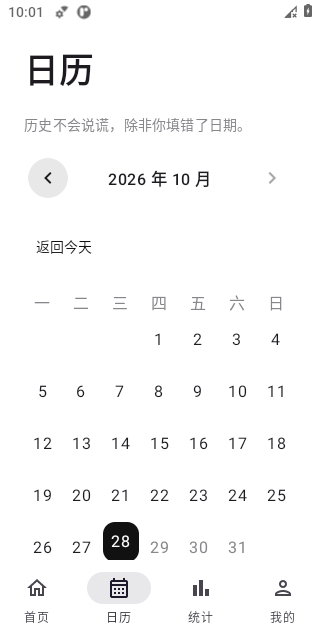
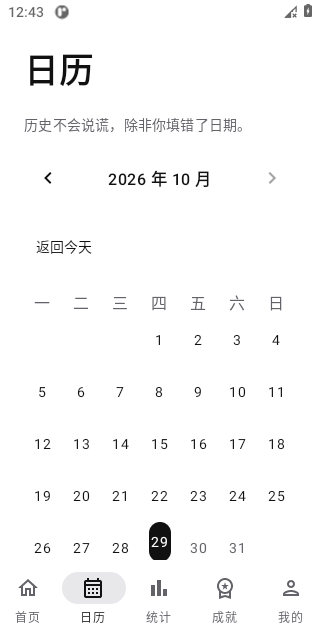
docs: deliver verified v0.2.0 prerelease, screenshots and validation evidence

diff --git a/docs/VALIDATION.md b/docs/VALIDATION.md
@@ -1,62 +1,66 @@
 # v0.2.0 验证与交付
 
-日期：2026-10-29（Asia/Shanghai）。全部测试数据为人工构造。历史 v0.1.0 的结果归档于 [旧版验证报告](history/VALIDATION-v0.1.0.md)，不能混作本次结果。
+日期：2026-10-29（Asia/Shanghai）。所有测试仅使用人工构造的数据。
 
-## 本地验证
+## 实际交付
 
-已执行：
+- [GitHub 预发布](https://github.com/J-Ruan/LuLeMa/releases/tag/v0.2.0-debug.2) · [APK 直接下载](https://github.com/J-Ruan/LuLeMa/releases/download/v0.2.0-debug.2/LuLeMa-v0.2.0-debug.apk) · [校验文件](https://github.com/J-Ruan/LuLeMa/releases/download/v0.2.0-debug.2/SHA256SUMS)。
+- 这是 **Debug 开发签名预发布**，不是正式签名稳定版。
[1 lines of base64/hex data omitted]
+- 包名 com.lulema.app，versionName 0.2.0，versionCode 2，minSdk 26、targetSdk 35。
+- 已从公开、无需登录的 URL 重新下载，逐项核对附件 SHA256SUMS、APK Signature Scheme v2、包名、版本和权限。不存在 INTERNET、精确 / 粗略 / 后台定位权限。
+
+## 真实检查结果
+
+| 检查 | 结果 |
+|---|---|
+| JVM 单元测试 | 42 项通过，0 失败、0 跳过 |
+| API 30 / Android 11 设备测试 | 7 项通过，0 失败、0 跳过 |
+| Lint | 0 错误；本地 17、CI 18 警告：15 项依赖更新、原有 v26 图标及矢量路径；CI 另提示保持 targetSdk 35 未使用最新目标 API |
+| Debug / AndroidTest 构建 | 成功，开发签名有效；公开附件已实际安装，并核对首页五个入口及初始 0 次记录 |
+| R8 Release 构建与安装 | 优化构建成功，专用模拟器以仅供测试的临时签名安装、启动、新增、详情点评、五页导航和报告切换成功 |
+| 小屏与大字体 | 本地 320×640、160dpi、1.5 倍字体的 R8 全流程成功；日历日期单行已截图人工核对，完成后恢复字体设置 |
+| 正式签名稳定版 | 未发布，四项签名 Secrets 均缺失；没有把 unsigned 或测试签名 APK 冒充正式版 |
+
+本地实际执行：
 
 ```bash
 ./gradlew --no-daemon --max-workers=2 :app:testDebugUnitTest :app:lintDebug :app:assembleDebug :app:assembleRelease :app:assembleDebugAndroidTest
+./gradlew --no-daemon :app:connectedDebugAndroidTest -Pandroid.injected.androidTest.leaveApksInstalledAfterRun=true
 ```
 
-- JVM 单元测试 42 项通过，0 失败、0 跳过。
-- Lint 0 错误、17 警告：15 项现有依赖的新版本提示，以及标准 v26 自适应图标目录、中文完整矢量轮廓两项原有警告。保持当前兼容依赖，未关闭检查或删除断言。
-- Debug、AndroidTest 和 R8 Release 构建成功。未向本地提供正式签名，Release 输出 unsigned，仅作构建验证，不能作为可安装的正式版。
-- 工作流 YAML、发布冒烟脚本 Python 语法与 git diff --check 通过。
+本地缺 /dev/kvm，TCG 交互轮次受启动系统 ANR 和输入派发超时影响，不计为完整通过；完整 7 项结果来自硬件加速 CI。代码中未删除断言或跳过迁移。Espresso 仅用于 AndroidTest 的键盘操作，不进入应用 APK。
 
-API 30 / Android 11、320×640、160 dpi 的专用模拟器中，真实数据库迁移、Room CRUD / 新字段持久化 / 合并覆盖回滚、成就补算、实际加密文件导出预览恢复及篡改拒绝、WorkManager 任务 UUID 保持等 6 项后端设备测试已经通过。
+## 可核对的远端记录
 
-完整 Compose 流程已在硬件加速 CI 实际通过，见下文。此本地实例没有 /dev/kvm，TCG 启动时出现 System UI、电话、蓝牙和 system 进程的无响应对话框；处理启动对话框后，交互测试仍遇到输入派发超时。本地轮次不完整，不能描述为通过。测试保留全部断言，增加仅含阶段名称的日志和可见区域滚动定位，并将 R8 构建与交互分开运行。
+- [最终 main 验证 40875176118](https://github.com/J-Ruan/LuLeMa/actions/runs/40875176118)：build、7 项设备测试、R8 安装冒烟成功。
+- [实际发布流水线 40876438177](https://github.com/J-Ruan/LuLeMa/actions/runs/40876438177)：标签门禁成功后 debug-prerelease 上传实际附件。正式 release job 按缺签名的真实状态跳过。
+- [前一轮完整验证 40870347476](https://github.com/J-Ruan/LuLeMa/actions/runs/40870347476) 已核对真实 JUnit XML：7 项、0 失败 / 错误 / 跳过，31.446 秒。
+- 核心实现提交 81b4ac5；完整灰阶主题与独立 R8 测试签名 6668354；大字体与报告断言 297ceca；键盘测试与显式依赖 6bfe537 / 3693083。实际发布 Tag 指向 3693083，后续 README / 截图 / 本报告同步在 main。
 
-## 实现与验证范围
+## 业务与迁移验证
 
-- 单元测试覆盖单日 2–6 次同时解锁、UUID 幂等、历史连续日期 / 中断 / 跨年闰日、时长点评及 0/3/60 边界、解锁后不撤销。
-- 新字段覆盖非负整数 / 上限、小数 / NaN / Infinity / 精度 / 上限、地点长度、空值与真实 0；合计使用 Long 和 BigDecimal。
-- 报告覆盖自然周起始、跨年周、闰月 / 闰年、截止今天、空数据、有效时长平均值、地点分组与按本地日期归属的新勋章。
-- 备份覆盖真实 v1 缺失字段恢复为空、新格式明文 / AES-GCM 往返、密码 / 篡改 / 超限 / 深度 / 重复 ID / 缺身份字段及异常未来时间戳。
-- MigrationTestHelper 用已提交的 schema 1 创建旧数据库，插入旧记录、设置和解锁时间，显式迁移至 2，验证三列为 NULL、原数据及升级后 CRUD。应用注册同一迁移，不使用破坏性回退。
-- Compose 流程保留输入、重建恢复、详情点评、编辑、新字段回显、报告切换和刷新、独立勋章墙、五页导航、深色重建和删除检查；已在以下 CI 设备轮次完整通过。
+- 原九枚成就 key 保留，新增八枚；单日 2–6 次逐边界、同 UUID 幂等、历史补录、连续日期 / 中断 / 跨月跨年闰日、0 / 3 / 60 分钟边界均测试。删除和编辑不撤销既有解锁时间，导入后在业务事务中检查。
+- 手部运动次数为非负 Int?；出货量为 0–1000 mL、最多三位小数的 Double?，拒绝 NaN / Infinity；地点手填最多 100 字。未填为 null，真实 0 保留。手部次数合计用 Long，出货量用 BigDecimal，记录次数另行统计。
+- 周 / 月 / 年报告按本地自然日期，星期起始遵循 mondayFirst；当前周期截止今天。平均值和时长曲线仅含 duration > 0 的已填值；报告展示未填写数量。界面实际断言：两条记录中只有一次填写 61 分钟时，平均仍为 61.0 分钟。
+- Room schema 1、2 均保留，MIGRATION_1_2 用 ALTER TABLE 增加三个可空列并在应用注册。MigrationTestHelper 创建真实旧库、插入旧记录 / 设置 / 成就时间，升级后验证三列为 NULL、原数据完整及 CRUD；没有破坏性迁移。
+- 新导出格式 v2、兼容 v1 明文和加密；保留 PBKDF2 / AES-GCM、AAD、大小 / 深度限制、导入预览、按较新 UUID 合并、事务覆盖与回滚。三个新字段与 null / 0 的往返、重复 ID、坏密码 / 篡改 / 超限 / 异常未来时间戳均覆盖。
+- 创建 / 修改 / 解锁 / 导出时间必须为正且最多容忍本机五分钟偏差，修改不得早于创建；不静默改写异常文件。
+- 实际 WorkManager UUID 测试验证昵称、主题、星期起始不重排，提醒配置改变才重排，关闭会取消；启动使用 KEEP 检查。
+- Compose 真实录入三个字段、Activity 重建恢复、详情与编辑、报告刷新、独立勋章墙、五页导航、深色重建、删除均通过。文件导出 / 预览 / 恢复设备测试通过真实 ContentResolver 文件 URI 执行，篡改不改数据库。
 
-## 发布门槛与实际状态
+## 签名条件与剩余维护操作
 
-本次代码版本为 0.2.0 / versionCode 2，包名 com.lulema.app，minSdk 26、targetSdk 35。当前只确认源码实现及上述本地结果；v0.2.0 尚未发布。
+仓库执行器的 signing-readiness 已实际确认以下四项均缺失：KEYSTORE_BASE64、KEYSTORE_PASSWORD、KEY_ALIAS、KEY_PASSWORD。仅检查存在性，未输出秘密值。维护者需生成并长期离线保管同一份正式 Keystore，将四项配置为 GitHub Actions Secrets，先通过 main 的正式签名候选 APK 验证，再创建 v0.2.0 稳定 Tag、完成上传和下载校验。详见 [发布文档](RELEASING.md)。
 
-本地 GitHub 凭据可以读写仓库，但列出 Actions Secrets 的接口返回 403。仓库执行器的 signing-readiness 已实际检查并确认四项均缺失：KEYSTORE_BASE64、KEYSTORE_PASSWORD、KEY_ALIAS、KEY_PASSWORD。输出只包含缺失名称，不输出秘密值。正式稳定版因此暂不具备签名条件。
+Debug 与正式签名不同，开发签名也可能随执行器变化；升级前先导出并确认备份，签名冲突时再卸载、安装和恢复。v2 备份不能给旧 v0.1.0 导入，加密密码无法找回。
 
-仅在 main 的测试及实际正式签名候选包的签名、安装、启动和关键流程通过后创建 v0.2.0；缺签名则仅允许明确标记的 v0.2.0-debug.1 预发布。发布后必须重新下载真实附件核对 SHA-256 和签名，再记录链接与校验值。
+尚未覆盖 Android 8 真机、Android 13+ 通知授权、不同厂商省电策略及各 SAF 云盘文件提供器的完整手动回归。未将这些项目描述为通过。
 
-## 兼容性与未覆盖范围
+## 失败记录与修正
 
-- 旧记录以 duration=0 表示未填写，平均值和时长曲线统一忽略这些值；旧字段及九枚成就 key 不变，新列可空。
-- 旧 v1 明文 / 加密备份可导入；新导出格式 v2 不能给旧 v0.1.0 导入，升级前请保留旧备份。
-- 开发签名可能随机器改变，公开 v0.1.0 Debug 不承诺直接覆盖升级；正式签名与 Debug 不同，切换前先备份，必要时卸载旧包后恢复。
-- 尚未做 Android 8 真机、Android 13+ 通知授权、厂商省电策略及各 SAF 云盘提供器的完整回归；实际设备与 Release 验证将按执行结果补充，不以编译成功替代。
+- 本地首次增量编译有跨文件引用问题，清理生成文件后完整构建通过；本地软件仿真出现启动系统 ANR 及输入派发超时，不计作通过。公开 APK 安装成功，首次本地 am start -W 等待超时后首页实际加载；随后返回 Status: ok 并核对五页入口 / 初始空档案，不将该软件仿真的冷启动性能计为通过。
+- 40865042327：7 项设备测试通过，但 R8 冒烟假定默认开发私钥存在而失败；改为独立生成、清理仅供测试的临时密钥。40866586982 随后完整成功。
+- v0.2.0-debug.1 / 40871411137：展开选填字段时自动化操作遇到键盘布局时序，发布门禁阻止上传。保留失败 Tag，没有 Release。修正为先关闭键盘、等待字段；补齐显式测试依赖后编译和完整检查重新通过。3693083 保留全部断言。
 
-## 首轮远端验证及修正
-
-[运行 40865042327](https://github.com/J-Ruan/LuLeMa/actions/runs/40865042327)，源码提交 81b4ac5：build 成功，7 项 API 30 设备测试全部通过，0 失败 / 0 跳过，真实 JUnit XML 用时 30.372 秒，并产出八张实际 UI 截图。
-
-整轮工作流仍为失败：R8 构建成功后，冒烟签名步骤假定 /home/runner/.android/debug.keystore 存在，但缓存复用 APK 时该私钥不存在，尚未执行 R8 安装。已修正为独立生成仅供测试的临时 PKCS12 密钥，保留原设备截图后在专用模拟器进行独立安装，退出时清理；它不会进入 Release 附件或代替正式 Keystore。修正后的 [运行 40866586982](https://github.com/J-Ruan/LuLeMa/actions/runs/40866586982) 已完整成功，包含 build、7 项设备测试、独立测试密钥的 R8 签名 / 安装冒烟；正式签名发布按缺少 Secrets 的真实状态跳过。
-
-本地已经将 R8 输出以开发签名安装，实际通过包名 / 版本 / minSdk / 签名 / 无网络和定位权限检查，并走通启动、创建记录、详情点评、五页导航及月报 / 年报切换。该包仅作冒烟，不是正式稳定版。
-
-实际截图检查另发现 Material 3 默认部分容器带淡紫色，已补齐全部黑白灰色彩角色并提高次级文字对比度，覆盖表单、弹层、对话框和深色模式；修正后本地 JVM / Lint / Debug / R8 构建均再次通过。
-
-大字体实测进一步发现 320dp / 1.5 倍字体下两位日历日期折行，已收紧日期单元格横向留白并保持单行。报告 UI 截图改为实际统计内容，并补充未填时长不稀释平均值的界面断言；冒烟脚本在报告控件位于屏幕外时先滚动定位。上述最后修正需通过最终回归后再打标签。
-
-## 首个发布标签的门禁失败
-
-标签 v0.2.0-debug.1 的 [运行 40871411137](https://github.com/J-Ruan/LuLeMa/actions/runs/40871411137) 在设备测试阶段出现展开选填字段后的节点时序失败（hand-count-input 尚未出现），因此没有执行上传或创建 Release。保留此失败标签，不覆盖、不删除。测试已改为先收起输入法，再展开并等待字段出现；其余字段值、重建恢复、统计、删除等断言全部保留。通过修正后的 main 与标签验证后使用新的预发布后缀。
-
-键盘操作显式依赖 androidx.test.espresso:espresso-core:3.6.1（仅 AndroidTest，不进入应用 APK）；补齐后完整 JVM / Lint / Debug / R8 / AndroidTest 构建再次成功。首次缺依赖的编译失败也保留在记录中。
+旧版结果独立归档于 [v0.1.0 验证报告](history/VALIDATION-v0.1.0.md)。[本次实际文件清单](V0.2.0_FILES.md)。

diff --git a/docs/V0.2.0_FILES.md b/docs/V0.2.0_FILES.md
@@ -1,0 +1,56 @@
+# v0.2.0 实际变更文件
+
+实现基于原有架构；列表包含源代码、测试、迁移、工作流、文档和实际截图。
+
+- [.github/scripts/release-smoke.py](../.github/scripts/release-smoke.py)
+- [.github/scripts/start-emulator.sh](../.github/scripts/start-emulator.sh)
+- [.github/workflows/android.yml](../.github/workflows/android.yml)
+- [.gitignore](../.gitignore)
+- [CHANGELOG.md](../CHANGELOG.md)
+- [README.md](../README.md)
+- [app/build.gradle.kts](../app/build.gradle.kts)
+- [app/schemas/com.lulema.app.data.ArchiveDatabase/2.json](../app/schemas/com.lulema.app.data.ArchiveDatabase/2.json)
+- [app/src/androidTest/java/com/lulema/app/BackupDeviceTest.kt](../app/src/androidTest/java/com/lulema/app/BackupDeviceTest.kt)
+- [app/src/androidTest/java/com/lulema/app/ComposeFlowTest.kt](../app/src/androidTest/java/com/lulema/app/ComposeFlowTest.kt)
+- [app/src/androidTest/java/com/lulema/app/DatabaseTest.kt](../app/src/androidTest/java/com/lulema/app/DatabaseTest.kt)
+- [app/src/androidTest/java/com/lulema/app/MigrationTest.kt](../app/src/androidTest/java/com/lulema/app/MigrationTest.kt)
+- [app/src/androidTest/java/com/lulema/app/ReminderTest.kt](../app/src/androidTest/java/com/lulema/app/ReminderTest.kt)
+- [app/src/main/java/com/lulema/app/ArchiveViewModel.kt](../app/src/main/java/com/lulema/app/ArchiveViewModel.kt)
+- [app/src/main/java/com/lulema/app/LuLeMaApplication.kt](../app/src/main/java/com/lulema/app/LuLeMaApplication.kt)
+- [app/src/main/java/com/lulema/app/backup/BackupCodec.kt](../app/src/main/java/com/lulema/app/backup/BackupCodec.kt)
+- [app/src/main/java/com/lulema/app/data/Models.kt](../app/src/main/java/com/lulema/app/data/Models.kt)
+- [app/src/main/java/com/lulema/app/domain/AchievementEngine.kt](../app/src/main/java/com/lulema/app/domain/AchievementEngine.kt)
+- [app/src/main/java/com/lulema/app/domain/Analysis.kt](../app/src/main/java/com/lulema/app/domain/Analysis.kt)
+- [app/src/main/java/com/lulema/app/domain/DurationEvaluator.kt](../app/src/main/java/com/lulema/app/domain/DurationEvaluator.kt)
+- [app/src/main/java/com/lulema/app/domain/EntryInput.kt](../app/src/main/java/com/lulema/app/domain/EntryInput.kt)
+- [app/src/main/java/com/lulema/app/domain/ReminderConfiguration.kt](../app/src/main/java/com/lulema/app/domain/ReminderConfiguration.kt)
+- [app/src/main/java/com/lulema/app/domain/ReportAnalyzer.kt](../app/src/main/java/com/lulema/app/domain/ReportAnalyzer.kt)
+- [app/src/main/java/com/lulema/app/ui/Achievements.kt](../app/src/main/java/com/lulema/app/ui/Achievements.kt)
+- [app/src/main/java/com/lulema/app/ui/ArchiveApp.kt](../app/src/main/java/com/lulema/app/ui/ArchiveApp.kt)
+- [app/src/main/java/com/lulema/app/ui/ArchiveColors.kt](../app/src/main/java/com/lulema/app/ui/ArchiveColors.kt)
+- [app/src/main/java/com/lulema/app/ui/EntryDetails.kt](../app/src/main/java/com/lulema/app/ui/EntryDetails.kt)
+- [app/src/main/java/com/lulema/app/ui/Reports.kt](../app/src/main/java/com/lulema/app/ui/Reports.kt)
+- [app/src/main/java/com/lulema/app/ui/Settings.kt](../app/src/main/java/com/lulema/app/ui/Settings.kt)
+- [app/src/main/java/com/lulema/app/ui/Statistics.kt](../app/src/main/java/com/lulema/app/ui/Statistics.kt)
+- [app/src/test/java/com/lulema/app/ArchiveTest.kt](../app/src/test/java/com/lulema/app/ArchiveTest.kt)
+- [app/src/test/java/com/lulema/app/BackupV2Test.kt](../app/src/test/java/com/lulema/app/BackupV2Test.kt)
+- [app/src/test/java/com/lulema/app/ReportTest.kt](../app/src/test/java/com/lulema/app/ReportTest.kt)
+- [app/src/test/java/com/lulema/app/V020DomainTest.kt](../app/src/test/java/com/lulema/app/V020DomainTest.kt)
+- [docs/BACKUP.md](../docs/BACKUP.md)
+- [docs/DEBUG_RELEASE_NOTES.md](../docs/DEBUG_RELEASE_NOTES.md)
+- [docs/DEVELOPMENT.md](../docs/DEVELOPMENT.md)
+- [docs/RELEASE_NOTES.md](../docs/RELEASE_NOTES.md)
+- [docs/RELEASING.md](../docs/RELEASING.md)
+- [docs/VALIDATION.md](../docs/VALIDATION.md)
+- [docs/history/VALIDATION-v0.1.0.md](../docs/history/VALIDATION-v0.1.0.md)
+- [docs/screenshots/achievements-overview.png](../docs/screenshots/achievements-overview.png)
+- [docs/screenshots/achievements.png](../docs/screenshots/achievements.png)
+- [docs/screenshots/calendar.png](../docs/screenshots/calendar.png)
+- [docs/screenshots/home.png](../docs/screenshots/home.png)
+- [docs/screenshots/large-font-calendar.png](../docs/screenshots/large-font-calendar.png)
+- [docs/screenshots/report-fields.png](../docs/screenshots/report-fields.png)
+- [docs/screenshots/report-month.png](../docs/screenshots/report-month.png)
+- [docs/screenshots/report-year.png](../docs/screenshots/report-year.png)
+- [docs/screenshots/settings-dark.png](../docs/screenshots/settings-dark.png)
+- [docs/screenshots/settings.png](../docs/screenshots/settings.png)
+- [docs/screenshots/stats.png](../docs/screenshots/stats.png)

diff --git a/README.md b/README.md
@@ -22,29 +22,32 @@ Android 8.0+ · Kotlin · Jetpack Compose · 完全离线 · MIT
 
 ## APK 下载与安装
 
-当前源码为 v0.2.0，验证与发布状态见 [验证报告](docs/VALIDATION.md)。下面为仍保留的上一版公开测试包。
+**[直接下载 APK · v0.2.0-debug.2 测试预发布](https://github.com/J-Ruan/LuLeMa/releases/download/v0.2.0-debug.2/LuLeMa-v0.2.0-debug.apk)** · [发布页面](https://github.com/J-Ruan/LuLeMa/releases/tag/v0.2.0-debug.2) · [SHA256SUMS](https://github.com/J-Ruan/LuLeMa/releases/download/v0.2.0-debug.2/SHA256SUMS)
 
-**[直接下载 APK · v0.1.0-debug.1 测试版](https://github.com/J-Ruan/LuLeMa/releases/download/v0.1.0-debug.1/LuLeMa-v0.1.0-debug.apk)** · [发布说明与校验文件](https://github.com/J-Ruan/LuLeMa/releases/tag/v0.1.0-debug.1)
+公开下载无需登录 GitHub，支持 Android 8.0+。大小 18,275,669 字节。这是开发签名 Debug 预发布，正式签名稳定版仍缺四项签名 Secrets；不会将测试包冒充稳定版。
 
-公开下载无需登录 GitHub。这是开发签名的 Debug 预发布包，不是正式签名稳定版。
[1 lines of base64/hex data omitted]
 
-- [Actions 构建与 Artifact](https://github.com/J-Ruan/LuLeMa/actions/workflows/android.yml)：成功构建后下载 `LuLeMa-v0.1.0-debug`，登录 GitHub 并解压 ZIP。
-- [全部 Releases](https://github.com/J-Ruan/LuLeMa/releases)：已提供 Debug 测试预发布；正式签名版本仍需配置正式密钥并推送稳定版本 Tag。
-- 当前环境实际构建 / 安装结果见 [验证报告](docs/VALIDATION.md)。不能把工作流配置存在等同于远端运行成功。
+[全部 Releases](https://github.com/J-Ruan/LuLeMa/releases) 保留旧版。[Actions](https://github.com/J-Ruan/LuLeMa/actions/workflows/android.yml) 也提供构建 Artifact。实际测试、迁移、R8 和大字体验证范围见 [验证报告](docs/VALIDATION.md)。
 
-安装：将 APK 下载到 Android 8.0 及以上手机 → 打开文件 → 按系统提示仅为所用文件管理器 / 浏览器允许“安装未知应用” → 安装 → 安装后可关闭该权限。无需注册或网络连接。
+安装：下载 APK → 按 Android 提示允许所用浏览器 / 文件管理器安装未知应用 → 安装。无需注册或联网。
 
-升级前先导出备份。不同签名无法覆盖安装，首次从 Debug 切换正式版时先备份、卸载旧版、安装再导入。密码遗失无法恢复加密备份。
+**升级前先导出并确认备份可恢复。** 不同 Debug 构建可能使用不同签名；提示签名冲突时，先备份，再卸载旧版、安装并导入。首次切换正式签名也通常需要此步骤。加密备份密码无法找回；新格式 v2 不能交给旧 v0.1.0 导入。
 
 ## 实际运行截图
 
-以下截图来自 API 30 模拟器中的真实 App，使用人工构造的数据。
+以下截图来自 API 30 模拟器的真实自动化流程，展示不同操作阶段，全部为人工构造的数据；大字体图来自最终 R8 代码的 320dp / 1.5 倍字体实测。
 
 | 首页 | 日历 | 统计 | 我的 |
 |---|---|---|---|
 | <img src="docs/screenshots/home.png" width="160" alt="首页"/> | <img src="docs/screenshots/calendar.png" width="160" alt="日历"/> | <img src="docs/screenshots/stats.png" width="160" alt="统计"/> | <img src="docs/screenshots/settings.png" width="160" alt="我的"/> |
 
 <img src="docs/screenshots/settings-dark.png" width="180" alt="深色模式及系统状态栏"/>
+
+| 成就中心 | 月报 | 新字段合计 | 大字体日历 |
+|---|---|---|---|
+| <img src="docs/screenshots/achievements-overview.png" width="160" alt="独立勋章墙"/> | <img src="docs/screenshots/report-month.png" width="160" alt="月报真实统计值"/> | <img src="docs/screenshots/report-fields.png" width="160" alt="区分记录次数与手部运动次数的报告"/> | <img src="docs/screenshots/large-font-calendar.png" width="160" alt="320dp、1.5 倍字体的单行日期"/> |
+
 
 测试与设备验证范围见 [验证报告](docs/VALIDATION.md)。
 

diff --git a/docs/RELEASING.md b/docs/RELEASING.md
@@ -53,11 +53,15 @@ git push origin v0.2.0
 
 ## Debug 预发布
 
-历史 [v0.1.0-debug.1](https://github.com/J-Ruan/LuLeMa/releases/tag/v0.1.0-debug.1) 保留。本次若缺正式签名可使用新标签 `v0.2.0-debug.1`。`debug-prerelease` job 等待 build 与 device-tests（含 R8 冒烟）成功，下载本次构建已核验签名的 Artifact，检查 SHA256SUMS，再以 Pre-release 发布 Debug APK。无需正式签名 Secrets，也不会执行正式签名发布 job。实际发布状态和校验值见 VALIDATION，不把示例标签当成已发布。
+当前 [v0.2.0-debug.2](https://github.com/J-Ruan/LuLeMa/releases/tag/v0.2.0-debug.2) 已实际发布。[v0.1.0-debug.1](https://github.com/J-Ruan/LuLeMa/releases/tag/v0.1.0-debug.1) 继续保留。v0.2.0-debug.1 的首次门禁失败，只有 Tag，没有 Release，不覆盖此标签。
+
+`debug-prerelease` 必须等待 build 与 device-tests（含 R8 冒烟）成功，下载本次已核验签名的 Debug Artifact，检查 SHA256SUMS，再以 Pre-release 发布。它不使用正式签名 Secrets，也不执行正式签名发布。
+
+后续同版本测试使用新的后缀，例如：
 
 ```bash
-git tag -a v0.2.0-debug.1 -m 'LuLeMa v0.2.0 Debug prerelease 1'
-git push origin v0.2.0-debug.1
+git tag -a v0.2.0-debug.3 -m 'LuLeMa v0.2.0 Debug prerelease 3'
+git push origin v0.2.0-debug.3
 ```
 
-后续测试版递增 `debug.2` 等后缀，不覆盖旧标签或安装包。Debug 版本不承诺跨构建签名一致，升级前必须备份。
+不覆盖既有 Tag、Release 或安装包。Debug 开发签名不承诺跨构建一致，升级前必须备份。正式版请配置上文四项 Secrets，先验证 main 的正式签名候选包，再推送仍未使用的 v0.2.0 稳定标签。

diff --git a/docs/BACKUP.md b/docs/BACKUP.md
@@ -27,6 +27,6 @@ v0.2.0 新导出使用格式 v2，包括 `formatVersion`、`exportedAt`、`recor
 
 覆盖在单个 Room 事务中替换全部记录、设置和成就，保留备份中的解锁时间，再根据导入记录补算尚未解锁的成就。提醒强制关闭，用户检查设置后自行启用。格式验证在写入之前完成，事务失败回滚。文件本身包含重复 UUID 时拒绝导入，避免歧义。错误密码、篡改或预览失败均不会改动数据库。
 
-地点仅显示在本地详情和报告，不进入通知标题、锁屏或应用日志。App 不申请网络或定位权限；自行选择云盘文件提供器时，其上传行为由提供器负责。数据库自身仍依赖 Android 沙箱和设备加密，备份加密不等于数据库加密。
+地点仅显示在本地详情和报告，不进入通知标题、锁屏或应用日志。App 不申请 INTERNET 或定位权限；自行选择云盘文件提供器时，其上传行为由提供器负责。数据库自身仍依赖 Android 沙箱和设备加密，备份加密不等于数据库加密。
 
 清除全部数据需要二次确认，并清除记录、设置、成就及提醒。它不删除已由用户导出的文件、系统文件提供器的副本或磁盘硬件残留；导出文件请自行管理。

diff --git a/docs/RELEASE_NOTES.md b/docs/RELEASE_NOTES.md
@@ -7,7 +7,7 @@
 - 记录数量统一使用“次”；修复未填时长统计、无关设置重排提醒、异常时间戳与错误提示。
 - Room v1→v2 显式无损迁移；默认密码保护的备份升级为格式 v2，仍可导入 v1。
 
-Android 8.0+，包名 `com.lulema.app`，版本 `0.2.0` / `2`。全部记录本地保存，无账号、网络或定位权限，无广告和追踪。
+Android 8.0+，包名 `com.lulema.app`，版本 `0.2.0` / `2`。全部记录本地保存，无账号，不申请 INTERNET 或定位权限，无广告和追踪。
 
 升级前请主动导出并验证备份。正式签名与旧 Debug 签名不同，首次切换通常需要先备份、卸载旧版、安装再恢复。格式 v2 备份不能导入 v0.1.0，加密密码无法找回。提醒可能受系统省电策略延迟。
 

diff --git a/CHANGELOG.md b/CHANGELOG.md
@@ -12,7 +12,7 @@
 - 修复无关设置重置提醒、未填写时长进入平均值和趋势图、异常未来时间戳影响合并的问题；区分输入、文件访问、密码与事务恢复错误。
 - 增加真实迁移、备份文件、提醒任务标识与完整 Compose 设备测试；CI 增加签名配置存在性检查及 R8 APK 安装冒烟。
 
-发布状态与真实验证范围见 [验证报告](docs/VALIDATION.md)。Debug 预发布与正式签名稳定版分别标注，不混用安装包和校验值。
+已公开发布 [v0.2.0-debug.2 测试预发布](https://github.com/J-Ruan/LuLeMa/releases/tag/v0.2.0-debug.2)，完整门禁通过后上传并重新下载验证。正式稳定版仍缺四项签名配置。真实验证范围见 [验证报告](docs/VALIDATION.md)。
 
 ## 0.1.0 — 2026-10-28
 
